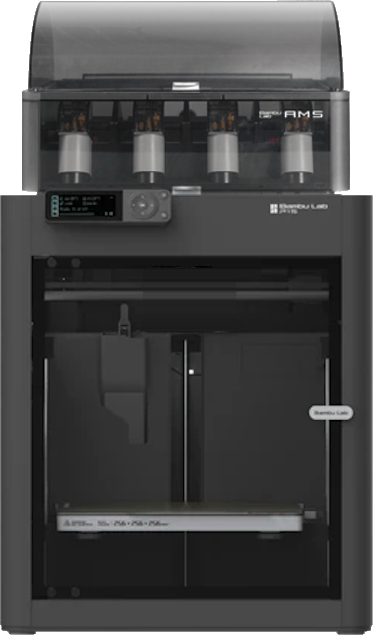
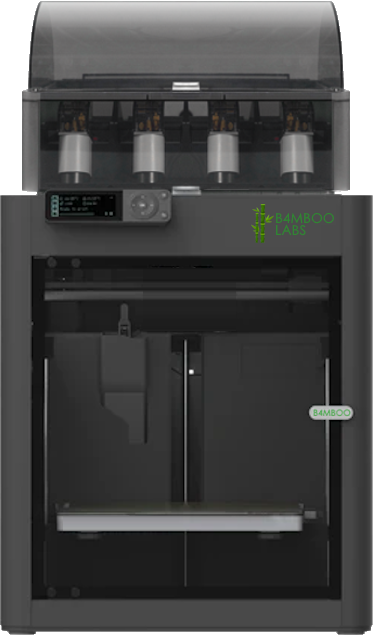
B4MBOO

diff --git a/src/gui.py b/src/gui.py
@@ -407,10 +407,10 @@ class Main_GUI:
     def show_powerup_popup(self, powerup: Powerup, time: int):
         match powerup:
             case Powerup.Anyquadratic:
-                powerup_string = "You got a free\nAnyquadratic printer!"
+                powerup_string = "You got a free\nAnyQuadratic printer!"
                 image = self.GFX_anyquadratic
             case Powerup.Bamboo:
-                powerup_string = "You got a free\nBamboo printer!"
+                powerup_string = "You got a free\nB4MBOO printer!"
                 image = self.GFX_bamboo
             case Powerup.DouyinIonThrusters:
                 powerup_string = "Douyin Ion Thrusters are\npowering your printer"
